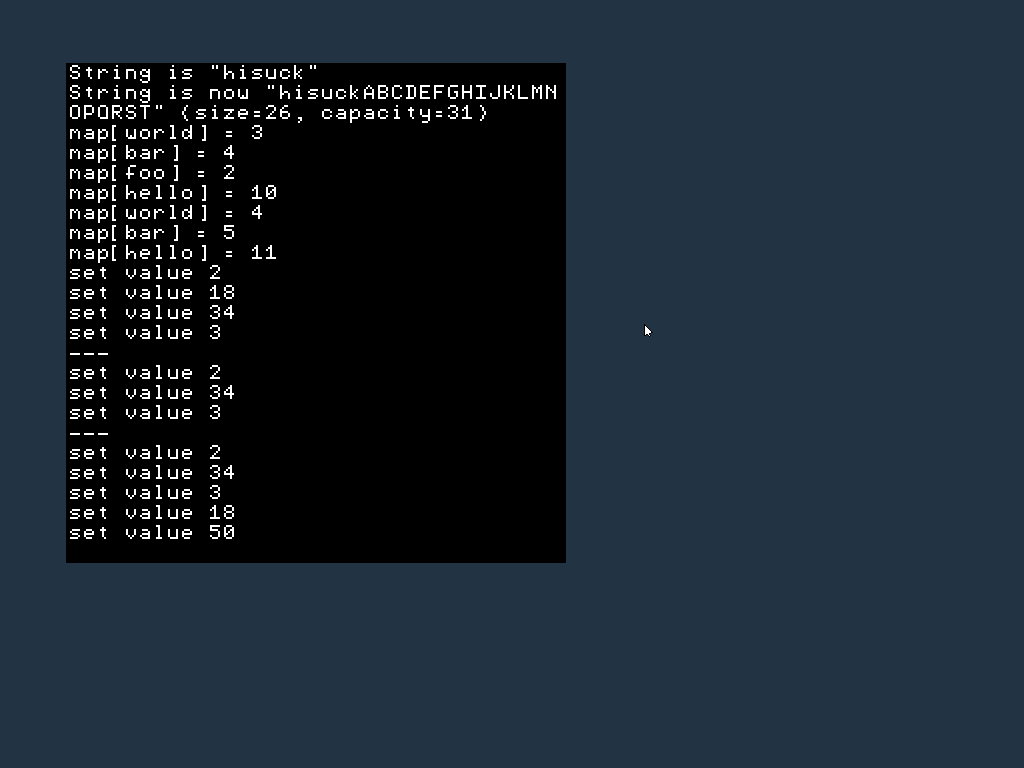
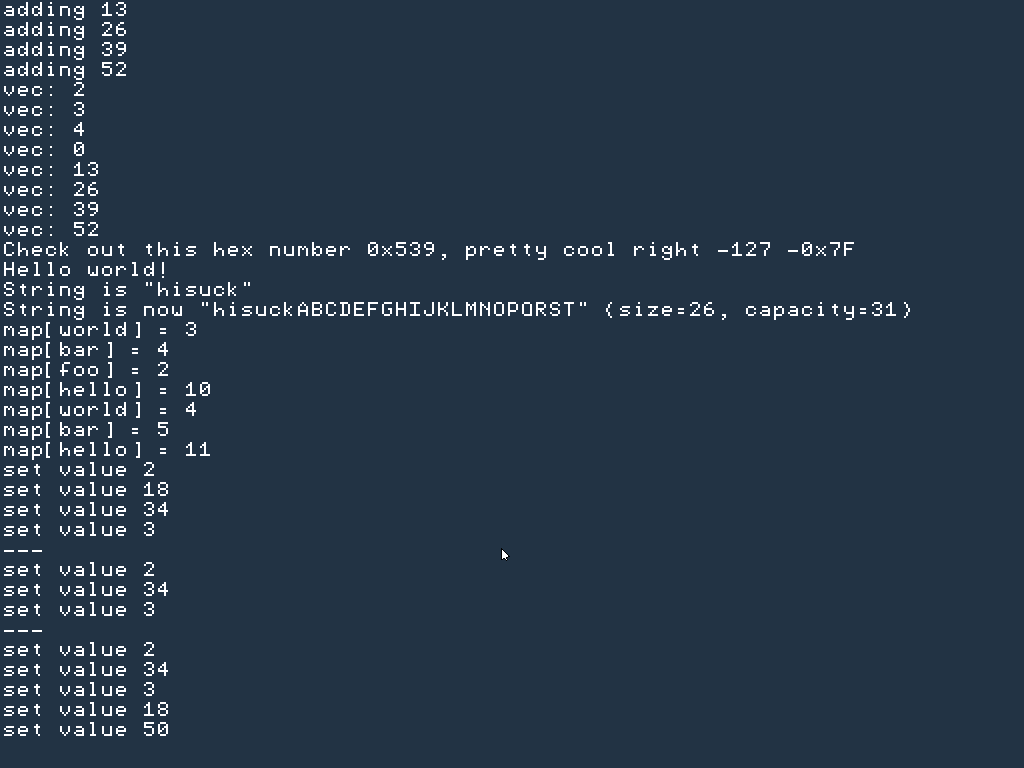
remove window system
this window system had really poor code and most importantly terrible
perfomance. it will later be reimplemented probably but for now i will
focus on other things

diff --git a/src/kernel/terminal.cpp b/src/kernel/terminal.cpp
@@ -13,13 +13,11 @@ u32 cursor_x = 0;
 u32 cursor_y = 0;
 u32 width, height;
 Vector<char> buffer;
-Window* terminal_window;
 
 void terminal_init() {
-	terminal_window = new Window(10, 10, 500, 500);
-	Screen::get().m_windows.push_back(terminal_window);
-	width = terminal_window->size().width / FONT_PIXEL_WIDTH;
-	height = terminal_window->size().height / FONT_PIXEL_HEIGHT;
+	auto& screen = Screen::get();
+	width = screen.width / FONT_PIXEL_WIDTH;
+	height = screen.height / FONT_PIXEL_HEIGHT;
 	// TODO: either Vector::fill or ctor with size and initial value param
 	buffer.reserve(width * height);
 	for (size_t i = 0; i < width * height; ++i)
@@ -31,6 +29,7 @@ void terminal_init() {
 void terminal_draw_char(char c, u32 x, u32 y, u32 color, bool refresh = false) {
 	if (c == ' ') return;
 	const auto letter = terminal_font[u8(c)];
+	auto& screen = Screen::get();
 	for (u32 font_j = 0; font_j < FONT_HEIGHT; ++font_j) {
 		const auto row = letter[font_j];
 		for (u32 font_i = 0; font_i < FONT_WIDTH; ++font_i) {
@@ -39,15 +38,19 @@ void terminal_draw_char(char c, u32 x, u32 y, u32 color, bool refresh = false) {
 					for (u8 offset_x = 0; offset_x < PIXEL_SIZE; ++offset_x) {
 						const auto pixel_y = y * FONT_PIXEL_HEIGHT + font_j * PIXEL_SIZE + offset_y;
 						const auto pixel_x = x * FONT_PIXEL_WIDTH + font_i * PIXEL_SIZE + offset_x;
-						terminal_window->set_pixel(pixel_x, pixel_y, color);
+						screen.set_pixel(pixel_x, pixel_y, color);
 					}
 				}
 			}
 		}
 	}
 	if (refresh) {
-		terminal_window->update_screen({ x * FONT_PIXEL_WIDTH, y * FONT_PIXEL_HEIGHT },
-			{ FONT_PIXEL_WIDTH * PIXEL_SIZE, FONT_PIXEL_HEIGHT * PIXEL_SIZE });
+		for (u32 py = 0; py < FONT_PIXEL_HEIGHT; ++py) {
+			for (u32 px = 0; px < FONT_PIXEL_WIDTH; ++px) {
+				const auto index = (y * FONT_PIXEL_HEIGHT + py) * screen.width + x * FONT_PIXEL_WIDTH + px;
+				screen.buffer_a[index] = screen.buffer_b[index];
+			}
+		}
 	}
 }
 
@@ -57,28 +60,22 @@ void terminal_put_entry_at(char c, size_t x, size_t y, bool refresh = false) {
 }
 
 void terminal_scroll_down() {
-	serial("scroll down called\n");
-	for (auto& x : terminal_window->buffer())
-		x = 0xFF000000;
 	--cursor_y;
 	for (u32 y = 0; y < height - 1; ++y)
 		memcpy(&buffer[y * width], &buffer[(y + 1) * width], width);
 	for (u32 x = 0; x < width; ++x)
 		terminal_put_entry_at(' ', x, height - 1);
-	for (u32 y = 0; y < height; ++y) {
-		for (u32 x = 0; x < width; ++x) {
-			terminal_draw_char(buffer[y * width + x], x, y, 0xFFFFFFFF);
-		}
-	}
-	terminal_window->update_entire_thing_lol();
+
+	Screen::get().redraw();
 }
 
 void terminal_put_char(char c) {
 	if (c != '\n')
 		terminal_put_entry_at(c, cursor_x, cursor_y, true);
-	if (c == '\n' || ++cursor_x == width) {
+	const auto& screen = Screen::get();
+	if (c == '\n' || ++cursor_x == screen.width / FONT_PIXEL_WIDTH) {
 		cursor_x = 0;
-		if (++cursor_y == height) {
+		if (++cursor_y == screen.height / FONT_PIXEL_HEIGHT) {
 			terminal_scroll_down();
 		}
 	}
@@ -91,4 +88,13 @@ void terminal_delete_char() {
 	}
 	--cursor_x;
 	terminal_put_entry_at(' ', cursor_x, cursor_y);
+	Screen::get().redraw();
+}
+
+void terminal_draw() {
+	for (u32 y = 0; y < height; ++y) {
+		for (u32 x = 0; x < width; ++x) {
+			terminal_draw_char(buffer[y * width + x], x, y, 0xFFFFFFFF);
+		}
+	}
 }

diff --git a/src/kernel/screen.hpp b/src/kernel/screen.hpp
@@ -1,23 +1,8 @@
 #pragma once
 #include "common.hpp"
-#include <lib/vector.hpp>
-#include <lib/pointer.hpp>
-#include <lib/math.hpp>
-
-class Window;
-
-struct Rect {
-	Vec2<u32> pos, size;
-};
 
 class Screen {
 public:
-	u32 width, height;
-	u32* buffer_a;
-	u32* buffer_b;
-	Vector<OwnPtr<Window>> m_windows;
-	Vector<Rect> m_update_rects;
-
 	static auto& get() {
 		static Screen instance;
 		return instance;
@@ -26,54 +11,17 @@ public:
 	// TODO: move this to the ctor somehow
 	void init(u32 width, u32 height, u32*);
 
+	u32 width, height;
+	u32* buffer_a;
+	u32* buffer_b;
+
 	void redraw();
 	void clear();
 	void swap();
-	void refresh();
 
 	// color is in the format 0xAARRGGB, although
 	// the alpha makes no sense in the context of a screen
 	inline void set_pixel(u32 x, u32 y, u32 color) {
-		if (x >= width || y >= height) return;
 		buffer_b[y * width + x] = color;
-	}
-};
-
-class Window {
-protected:
-	// TODO: vec structs
-	Vec2<u32> m_position, m_prev_position;
-	Vec2<u32> m_size;
-	friend Screen;
-	bool m_has_refreshed_move = false;
-public:
-	Vector<u32> m_buffer;
-	virtual ~Window() = default;
-
-	void set_position(u32 x, u32 y) {
-		if (!m_has_refreshed_move) {
-			m_has_refreshed_move = true;
-			update_entire_thing_lol();
-		}
-		m_position = { x, y };
-	}
-
-	Window(u32 x, u32 y, u32 width, u32 height)
-		: m_position(x, y), m_prev_position(m_position), m_size(width, height) {
-		m_buffer.reserve(height * width);
-		for (size_t i = 0; i < width * height; ++i)
-			m_buffer.push_back(0);
-	}
-
-	void update_screen(const Vec2<u32> pos, const Vec2<u32> size);
-
-	void update_entire_thing_lol();
-
-	auto size() const { return m_size; }
-	inline auto& buffer() { return m_buffer; }
-
-	inline void set_pixel(u32 x, u32 y, u32 color) {
-		if (x >= m_size.width || y >= m_size.height) return;
-		m_buffer[y * m_size.width + x] = color;
 	}
 };

diff --git a/src/kernel/screen.cpp b/src/kernel/screen.cpp
@@ -20,52 +20,9 @@ void Screen::swap() {
 }
 
 void Screen::redraw() {
-	// clear();
-	// terminal_draw();
+	clear();
+	terminal_draw();
 
 	swap();
-	// mouse_draw();
-}
-
-void Screen::refresh() {
-	for (const auto& rect : m_update_rects) {
-		for (u32 y = rect.pos.y; y < rect.size.height + rect.pos.y; ++y) {
-			for (u32 x = rect.pos.x; x < rect.size.width + rect.pos.x; ++x) {
-				const auto i = y * width + x;
-				buffer_a[i] = buffer_b[i];
-			}
-		}
-	}
-	// serial("update rects cleared\n");
-	m_update_rects.clear();
-	for (auto& window : m_windows) {
-		window->m_has_refreshed_move = false;
-	}
-}
-
-void Window::update_screen(const Vec2<u32> pos, const Vec2<u32> size) {
-	auto& screen = Screen::get();
-	for (u32 y = pos.y; y < size.height + pos.y; ++y) {
-		for (u32 x = pos.x; x < size.width + pos.x; ++x) {
-			screen.set_pixel(m_position.x + x, m_position.y + y, m_buffer[y * m_size.width + x]);
-		}
-	}
-	// TODO: not
-	if (screen.m_update_rects.size() < 50)
-		screen.m_update_rects.push_back(Rect { m_position + pos, size });
-}
-
-void Window::update_entire_thing_lol() {
-	if (m_prev_position != m_position) {
-		auto& screen = Screen::get();
-		// TODO: intersection with current pos to not set the same pixel twice
-		for (u32 y = 0; y < m_size.height; ++y) {
-			for (u32 x = 0; x < m_size.width; ++x) {
-				screen.set_pixel(m_prev_position.x + x, m_prev_position.y + y, 0xFF223344);
-			}
-		}
-		screen.m_update_rects.push_back(Rect { m_prev_position, m_size });
-		update_screen({ 0, 0 }, m_size);
-		m_prev_position = m_position;
-	}
+	mouse_draw();
 }

diff --git a/src/kernel/kernel.cpp b/src/kernel/kernel.cpp
@@ -46,7 +46,7 @@ extern "C" void kernel_main(MultibootInfo* multiboot) {
 		screen.init(multiboot->framebuffer_width, multiboot->framebuffer_height, pixels);
 		terminal_init();
 	}
-	screen.clear();
+	screen.redraw();
 
 	serial("hello\n"_sv);
 
@@ -147,11 +147,5 @@ extern "C" void kernel_main(MultibootInfo* multiboot) {
 	terminal("---\n");
 	for (const auto& value : my_set) {
 		terminal("set value {}\n", value);
-	}
-
-	screen.swap();
-	while (true) {
-		screen.refresh();
-		sleep(32);
 	}
 }

diff --git a/src/kernel/mouse.cpp b/src/kernel/mouse.cpp
@@ -52,9 +52,6 @@ void mouse_handler(InterruptFrame*) {
 			auto& screen = Screen::get();
 			mouse_x = max(min(mouse_x, screen.width - 1), 0u);
 			mouse_y = max(min(mouse_y, screen.height - 1), 0u);
-			if (left_down) {
-				screen.m_windows[0]->set_position(mouse_x, mouse_y);
-			}
 			mouse_draw();
 		}
 	}

diff --git a/src/kernel/terminal.hpp b/src/kernel/terminal.hpp
@@ -7,6 +7,8 @@ void terminal_init();
 void terminal_put_char(char);
 void terminal_delete_char();
 
+void terminal_draw();
+
 template <class... Args>
 void terminal(const StringView& string, Args&&... args) {
 	format_to([](char c) { terminal_put_char(c); }, string, args...);

diff --git a/README.md b/README.md
@@ -11,5 +11,4 @@ only targets x86
 - my own stl
 - malloc that doesnt even using paging because i still dont understand paging
 - bad code
-- terrible graphical system that i will remove
 - c++20
